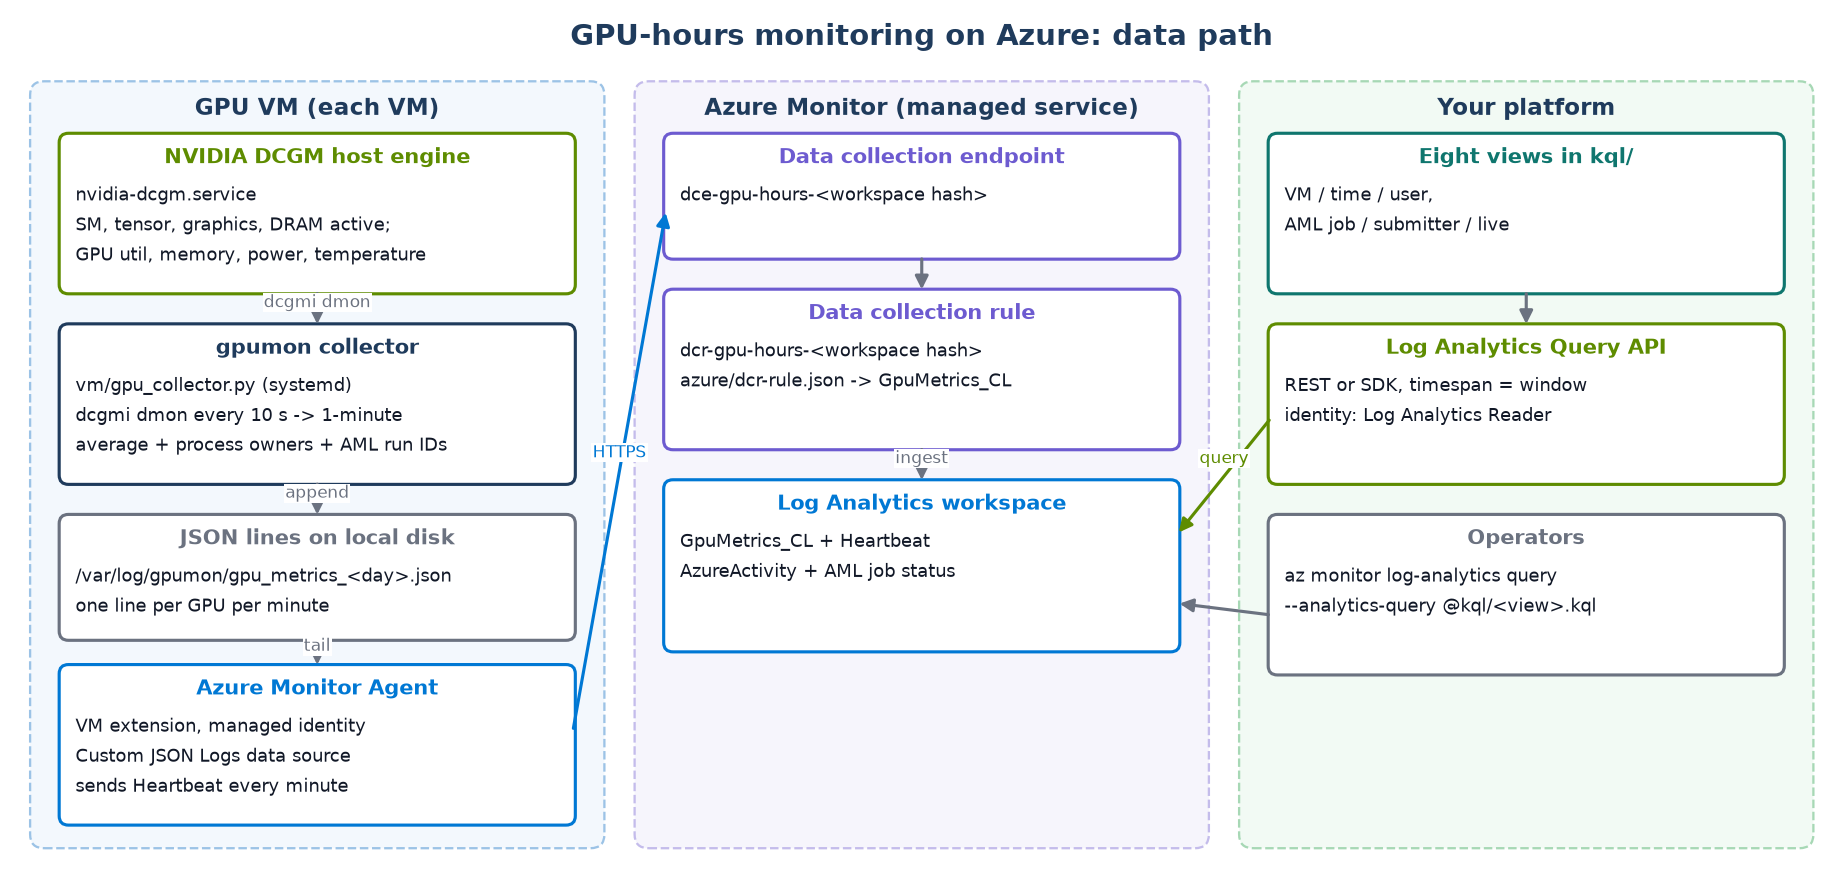
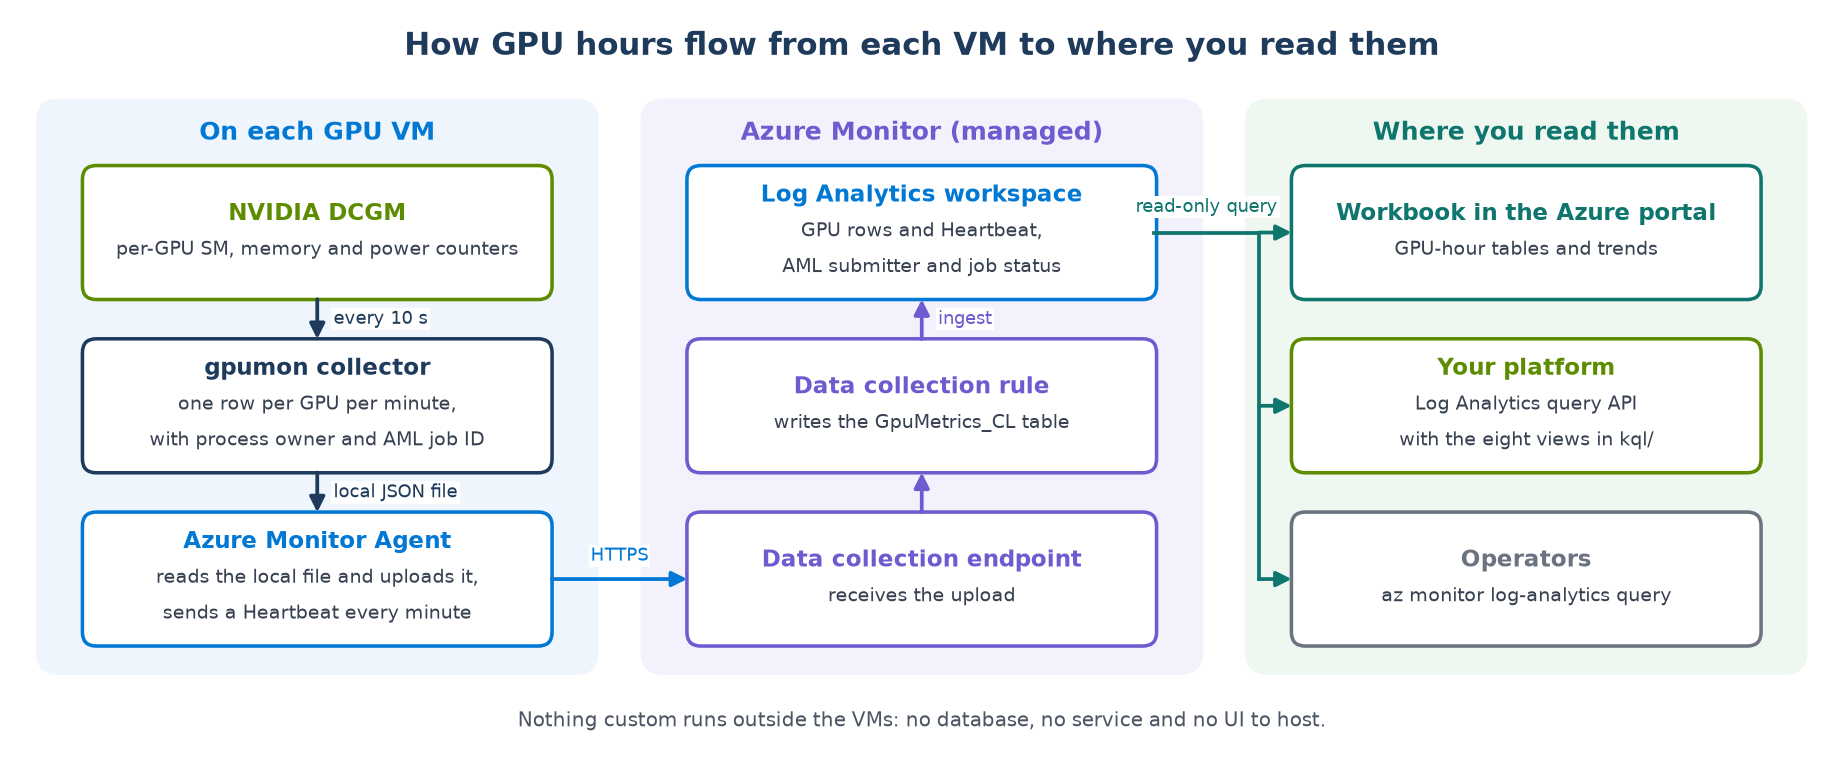
Azure-GPU-Hours-Monitoring: clearer architecture diagram; troubleshooting and job-ID check in Steps
The architecture figure is redrawn as one U-shaped data path in three aligned
lanes, one idea per box and no resource names or file paths: DCGM, gpumon and
the agent down the VM, endpoint, rule and workspace up through Azure Monitor,
and one read-only query fanned out to the workbook, your platform and operators.
Steps gains the read-only AZUREML_RUN_ID check and a five-row common-issues
table, both from the delivery manual.

diff --git a/Deep-Learning/Azure-GPU-Hours-Monitoring/tools/draw_diagrams.py b/Deep-Learning/Azure-GPU-Hours-Monitoring/tools/draw_diagrams.py
@@ -175,33 +175,110 @@ class Board:
         self.fig.savefig(out, bbox_inches="tight", facecolor="white", metadata={"Software": None})
 
 
+ARCH = {
+    "en": {
+        "title": "How GPU hours flow from each VM to where you read them",
+        "lanes": ("On each GPU VM", "Azure Monitor (managed)", "Where you read them"),
+        "dcgm": ("NVIDIA DCGM", "per-GPU SM, memory and power counters"),
+        "gpumon": ("gpumon collector", "one row per GPU per minute,", "with process owner and AML job ID"),
+        "ama": ("Azure Monitor Agent", "reads the local file and uploads it,", "sends a Heartbeat every minute"),
+        "dce": ("Data collection endpoint", "receives the upload"),
+        "dcr": ("Data collection rule", "writes the GpuMetrics_CL table"),
+        "law": ("Log Analytics workspace", "GPU rows and Heartbeat,", "AML submitter and job status"),
+        "wb": ("Workbook in the Azure portal", "GPU-hour tables and trends"),
+        "api": ("Your platform", "Log Analytics query API", "with the eight views in kql/"),
+        "cli": ("Operators", "az monitor log-analytics query"),
+        "a1": "every 10 s", "a2": "local JSON file", "a3": "HTTPS", "a4": "ingest", "a5": "read-only query",
+        "note": "Nothing custom runs outside the VMs: no database, no service and no UI to host.",
+    },
+    "cn": {
+        "title": "GPU 卡时从每台 VM 到查看端的路径",
+        "lanes": ("每台 GPU VM 上", "Azure Monitor（托管服务）", "在哪里看"),
+        "dcgm": ("NVIDIA DCGM", "每张卡的 SM、显存、功耗计数器"),
+        "gpumon": ("gpumon 采集器", "每张卡每分钟一行，", "带进程属主和 AML 作业 ID"),
+        "ama": ("Azure Monitor Agent", "读取本地文件并上传，", "每分钟发送 Heartbeat"),
+        "dce": ("数据收集终结点（DCE）", "接收上传的数据"),
+        "dcr": ("数据收集规则（DCR）", "写入 GpuMetrics_CL 表"),
+        "law": ("Log Analytics 工作区", "GPU 数据和 Heartbeat，", "AML 提交人和作业状态"),
+        "wb": ("Azure 门户中的 Workbook", "卡时表格和趋势"),
+        "api": ("客户平台", "Log Analytics 查询 API", "调用 kql/ 下的八个查询"),
+        "cli": ("运维人员", "az monitor log-analytics query"),
+        "a1": "每 10 秒采样", "a2": "本地 JSON 文件", "a3": "HTTPS", "a4": "入库", "a5": "只读查询",
+        "note": "VM 之外不需要自建任何东西：没有数据库、没有服务、没有要托管的界面。",
+    },
+}
+
+
 def architecture(lang: str, out: Path) -> None:
+    """Data path as a U: down the VM, across to Azure Monitor, up to the workspace, across to the readers."""
+    from matplotlib.lines import Line2D
+    from matplotlib.patches import FancyArrowPatch, FancyBboxPatch
     plt = _setup(lang)
-    t = T[lang]
-    b = Board(plt, 15.6, 7.4)
-    b.ax.text(7.8, 7.2, t["arch_title"], ha="center", va="center", fontsize=14, fontweight="bold", color=DARK)
-    b.zone(0.15, 0.2, 4.9, 6.6, t["vm"], "#F3F8FD", "#9CC3E6")
-    b.zone(5.35, 0.2, 4.9, 6.6, t["azmon"], "#F6F5FC", "#C4BCEB")
-    b.zone(10.55, 0.2, 4.9, 6.6, t["platform"], "#F2FAF4", "#A7D8B5")
-    dcgm = b.box(0.4, 5.0, 4.4, 1.35, t["dcgm"], GREEN)
-    gpumon = b.box(0.4, 3.35, 4.4, 1.35, t["gpumon"], DARK)
-    file_ = b.box(0.4, 2.0, 4.4, 1.05, t["file"], GREY)
-    ama = b.box(0.4, 0.4, 4.4, 1.35, t["ama"], BLUE)
-    dce = b.box(5.6, 5.3, 4.4, 1.05, t["dce"], PURPLE)
-    dcr = b.box(5.6, 3.65, 4.4, 1.35, t["dcr"], PURPLE)
-    law = b.box(5.6, 1.9, 4.4, 1.45, t["law"], BLUE)
-    kql = b.box(10.8, 5.0, 4.4, 1.35, t["kql"], TEAL)
-    api = b.box(10.8, 3.35, 4.4, 1.35, t["api"], GREEN)
-    cli = b.box(10.8, 1.7, 4.4, 1.35, t["cli"], GREY)
-    b.arrow((2.6, dcgm[1]), (2.6, gpumon[1] + gpumon[3]), t["a_dmon"], dy=-0.02)
-    b.arrow((2.6, gpumon[1]), (2.6, file_[1] + file_[3]), t["a_write"], dy=-0.02)
-    b.arrow((2.6, file_[1]), (2.6, ama[1] + ama[3]), t["a_tail"], dy=-0.02)
-    b.arrow((ama[0] + ama[2], 1.2), (dce[0], 5.7), t["a_https"], color=BLUE)
-    b.arrow((7.8, dce[1]), (7.8, dcr[1] + dcr[3]))
-    b.arrow((7.8, dcr[1]), (7.8, law[1] + law[3]), t["a_ingest"], dy=-0.02)
-    b.arrow((kql[0] + 2.2, kql[1]), (api[0] + 2.2, api[1] + api[3]))
-    b.arrow((api[0], 3.9), (law[0] + law[2], 2.9), t["a_query"], color=GREEN)
-    b.arrow((cli[0], 2.2), (law[0] + law[2], 2.3), "", color=GREY)
+    a = ARCH[lang]
+    W, H = 15.6, 6.5
+    b = Board(plt, W, H)
+    ax = b.ax
+    ax.text(W / 2, H - 0.28, a["title"], ha="center", va="center", fontsize=15, fontweight="bold", color=DARK)
+    lane_x, lane_w, lane_y, lane_h = (0.2, 5.4, 10.6), 4.8, 0.8, 4.95
+    styles = (("#EEF5FC", BLUE), ("#F3F1FC", PURPLE), ("#EEF8F1", TEAL))
+    for x, (fc, ec), title in zip(lane_x, styles, a["lanes"]):
+        ax.add_patch(FancyBboxPatch((x, lane_y), lane_w, lane_h, boxstyle="round,pad=0.02,rounding_size=0.2",
+                                    fc=fc, ec="none"))
+        tt = ax.text(x + lane_w / 2, lane_y + lane_h - 0.28, title, ha="center", va="center", fontsize=12,
+                     fontweight="bold", color=ec)
+        b.pairs.append(((x, lane_y, lane_w, lane_h), tt))
+
+    cw, ch = 4.0, 1.12
+    rows = (4.05, 2.55, 1.05)  # bottom of row 1 (top), 2, 3
+
+    def card(lane, row, lines, ec):
+        x, y = lane_x[lane] + (lane_w - cw) / 2, rows[row]
+        ax.add_patch(FancyBboxPatch((x, y), cw, ch, boxstyle="round,pad=0.02,rounding_size=0.12", fc="white", ec=ec,
+                                    lw=1.7))
+        title, *rest = lines
+        mid = y + ch / 2
+        top = mid + 0.16 * len(rest)
+        tt = ax.text(x + cw / 2, top, title, ha="center", va="center", fontsize=11, fontweight="bold", color=ec)
+        b.pairs.append(((x, y, cw, ch), tt))
+        for k, line in enumerate(rest):
+            tt = ax.text(x + cw / 2, top - 0.31 * (k + 1), line, ha="center", va="center", fontsize=9, color="#374151")
+            b.pairs.append(((x, y, cw, ch), tt))
+        return x, y
+
+    def arrow(p, q, color, label="", dx=0.0, dy=0.0):
+        ax.add_patch(FancyArrowPatch(p, q, arrowstyle="-|>", mutation_scale=15, color=color, lw=1.8, shrinkA=1, shrinkB=1))
+        if label:
+            ax.text((p[0] + q[0]) / 2 + dx, (p[1] + q[1]) / 2 + dy, label, ha="left" if dx else "center", va="center",
+                    fontsize=8.6, color=color, bbox=dict(fc="white", ec="none", pad=1.0))
+
+    dcgm = card(0, 0, a["dcgm"], GREEN)
+    gpumon = card(0, 1, a["gpumon"], DARK)
+    ama = card(0, 2, a["ama"], BLUE)
+    dce = card(1, 2, a["dce"], PURPLE)
+    dcr = card(1, 1, a["dcr"], PURPLE)
+    law = card(1, 0, a["law"], BLUE)
+    wb = card(2, 0, a["wb"], TEAL)
+    api = card(2, 1, a["api"], GREEN)
+    cli = card(2, 2, a["cli"], GREY)
+    lx, mx = dcgm[0] + cw / 2, dce[0] + cw / 2
+    arrow((lx, rows[0]), (lx, rows[1] + ch), DARK, a["a1"], dx=0.14)
+    arrow((lx, rows[1]), (lx, rows[2] + ch), DARK, a["a2"], dx=0.14)
+    arrow((ama[0] + cw, rows[2] + ch / 2), (dce[0], rows[2] + ch / 2), BLUE, a["a3"], dy=0.2)
+    arrow((mx, rows[2] + ch), (mx, rows[1]), PURPLE)
+    arrow((mx, rows[1] + ch), (mx, rows[0]), PURPLE, a["a4"], dx=0.14)
+    # one read path from the workspace, fanned out to the three readers
+    bus = wb[0] - 0.3
+    y0, y2 = rows[0] + ch / 2, rows[2] + ch / 2
+    ax.add_line(Line2D([law[0] + cw, bus], [y0, y0], color=TEAL, lw=1.8))
+    ax.add_line(Line2D([bus, bus], [y0, y2], color=TEAL, lw=1.8))
+    for r in range(3):
+        y = rows[r] + ch / 2
+        ax.add_patch(FancyArrowPatch((bus, y), (wb[0], y), arrowstyle="-|>", mutation_scale=15, color=TEAL, lw=1.8,
+                                     shrinkA=0, shrinkB=1))
+    ax.text((law[0] + cw + bus) / 2, y0 + 0.22, a["a5"], ha="center", va="center", fontsize=8.6, color=TEAL,
+            bbox=dict(fc="white", ec="none", pad=1.0))
+    tt = ax.text(W / 2, 0.38, a["note"], ha="center", va="center", fontsize=9.6, color="#4B5563")
+    b.pairs.append(((0, 0, W, H), tt))
     b.verify(out.name)
     b.save(out)
     plt.close(b.fig)

diff --git a/Deep-Learning/Azure-GPU-Hours-Monitoring/README.md b/Deep-Learning/Azure-GPU-Hours-Monitoring/README.md
@@ -98,6 +98,17 @@ mpirun -x AZUREML_RUN_ID ...                                      # across hosts
 docker run -e AZUREML_RUN_ID ...                                  # a container on the host
 ```
 
+To confirm the running GPU processes on one VM carry the job ID (read-only):
+
+```bash
+cat > check-runid.sh <<'EOF'
+for p in $(nvidia-smi --query-compute-apps=pid --format=csv,noheader); do
+  echo "pid $p: $(tr '\0' '\n' < /proc/$p/environ | grep '^AZUREML_RUN_ID=' || echo 'no AZUREML_RUN_ID')"
+done
+EOF
+az vm run-command invoke -g "$VM_RG" -n "$VM_NAME" --command-id RunShellScript --scripts @check-runid.sh --query "value[0].message" -o tsv
+```
+
 **6. Deploy the workbook.**
 
 ```bash
@@ -134,6 +145,16 @@ From Python, use the reference client: `python examples/gpu_hours_client.py --cr
 | [`per_user`](kql/per_user.kql) | Linux user |
 | [`per_job`](kql/per_job.kql), [`per_submitter`](kql/per_submitter.kql) | AML job, with submitter and status; submitter |
 | [`live`](kql/live.kql) | latest row for each job on each GPU |
+
+**Common issues.**
+
+| Symptom | What to do |
+|---|---|
+| `AuthorizationFailed` in step 4 | Get Contributor on the resource groups; without subscription diagnostic-settings rights, leave `AML_WORKSPACE_ID` empty for now |
+| Exit 3, one VM never sends rows | Allow the `AzureMonitor` service tag in the NSG; check the agent and collector: `az vm run-command invoke -g "$VM_RG" -n "$VM_NAME" --command-id RunShellScript --scripts "systemctl is-active gpumon nvidia-dcgm"` |
+| A job is missing from `per_job` | Its GPU processes lack `AZUREML_RUN_ID`; check with the step 5 command |
+| `per_job` shows no submitter | The activity log arrives 6–9 minutes later; the window must include the submission time |
+| The scale set grew or a VM was added | Rerun step 4; onboarded VMs are refreshed in place |
 
 **Offboard and remove.** Offboard one VM (the Azure Monitor Agent and DCGM stay), or remove the monitoring resources (dry run by default; `-y` removes; the resource group is never deleted):
 

diff --git a/Deep-Learning/Azure-GPU-Hours-Monitoring/README_CN.md b/Deep-Learning/Azure-GPU-Hours-Monitoring/README_CN.md
@@ -98,6 +98,17 @@ mpirun -x AZUREML_RUN_ID ...                                      # 跨主机分
 docker run -e AZUREML_RUN_ID ...                                  # 宿主机上起容器
 ```
 
+确认某台 VM 上正在运行的 GPU 进程带了作业 ID（只读）：
+
+```bash
+cat > check-runid.sh <<'EOF'
+for p in $(nvidia-smi --query-compute-apps=pid --format=csv,noheader); do
+  echo "pid $p: $(tr '\0' '\n' < /proc/$p/environ | grep '^AZUREML_RUN_ID=' || echo 'no AZUREML_RUN_ID')"
+done
+EOF
+az vm run-command invoke -g "$VM_RG" -n "$VM_NAME" --command-id RunShellScript --scripts @check-runid.sh --query "value[0].message" -o tsv
+```
+
 **6. 部署报表。**
 
 ```bash
@@ -134,6 +145,16 @@ Python 可以直接用参考客户端：`python examples/gpu_hours_client.py --c
 | [`per_user`](kql/per_user.kql) | 每个 Linux 用户 |
 | [`per_job`](kql/per_job.kql)、[`per_submitter`](kql/per_submitter.kql) | 每个 AML 作业（含提交人、状态）；每个提交人 |
 | [`live`](kql/live.kql) | 每张卡上每个作业的最新一行 |
+
+**常见问题。**
+
+| 现象 | 处理 |
+|---|---|
+| 第 4 步报 `AuthorizationFailed` | 补齐资源组 Contributor；没有订阅级诊断设置权限时，先把 `AML_WORKSPACE_ID` 留空 |
+| 退出码 3，某台一直没有数据 | 确认 NSG 放行服务标记 `AzureMonitor`；查看代理和采集服务：`az vm run-command invoke -g "$VM_RG" -n "$VM_NAME" --command-id RunShellScript --scripts "systemctl is-active gpumon nvidia-dcgm"` |
+| `per_job` 里没有某个作业 | GPU 进程没带 `AZUREML_RUN_ID`，用第 5 步的检查命令确认 |
+| `per_job` 的提交人为空 | 活动日志晚到 6–9 分钟；查询时段要覆盖作业的提交时刻 |
+| 规模集扩容或新增 VM | 重跑第 4 步，已接入的 VM 原地刷新 |
 
 **下线与删除。** 下线一台 VM（保留 Azure Monitor Agent 和 DCGM），或删除整套监控资源（默认只预览，加 `-y` 才删除，不会删资源组）：
 
